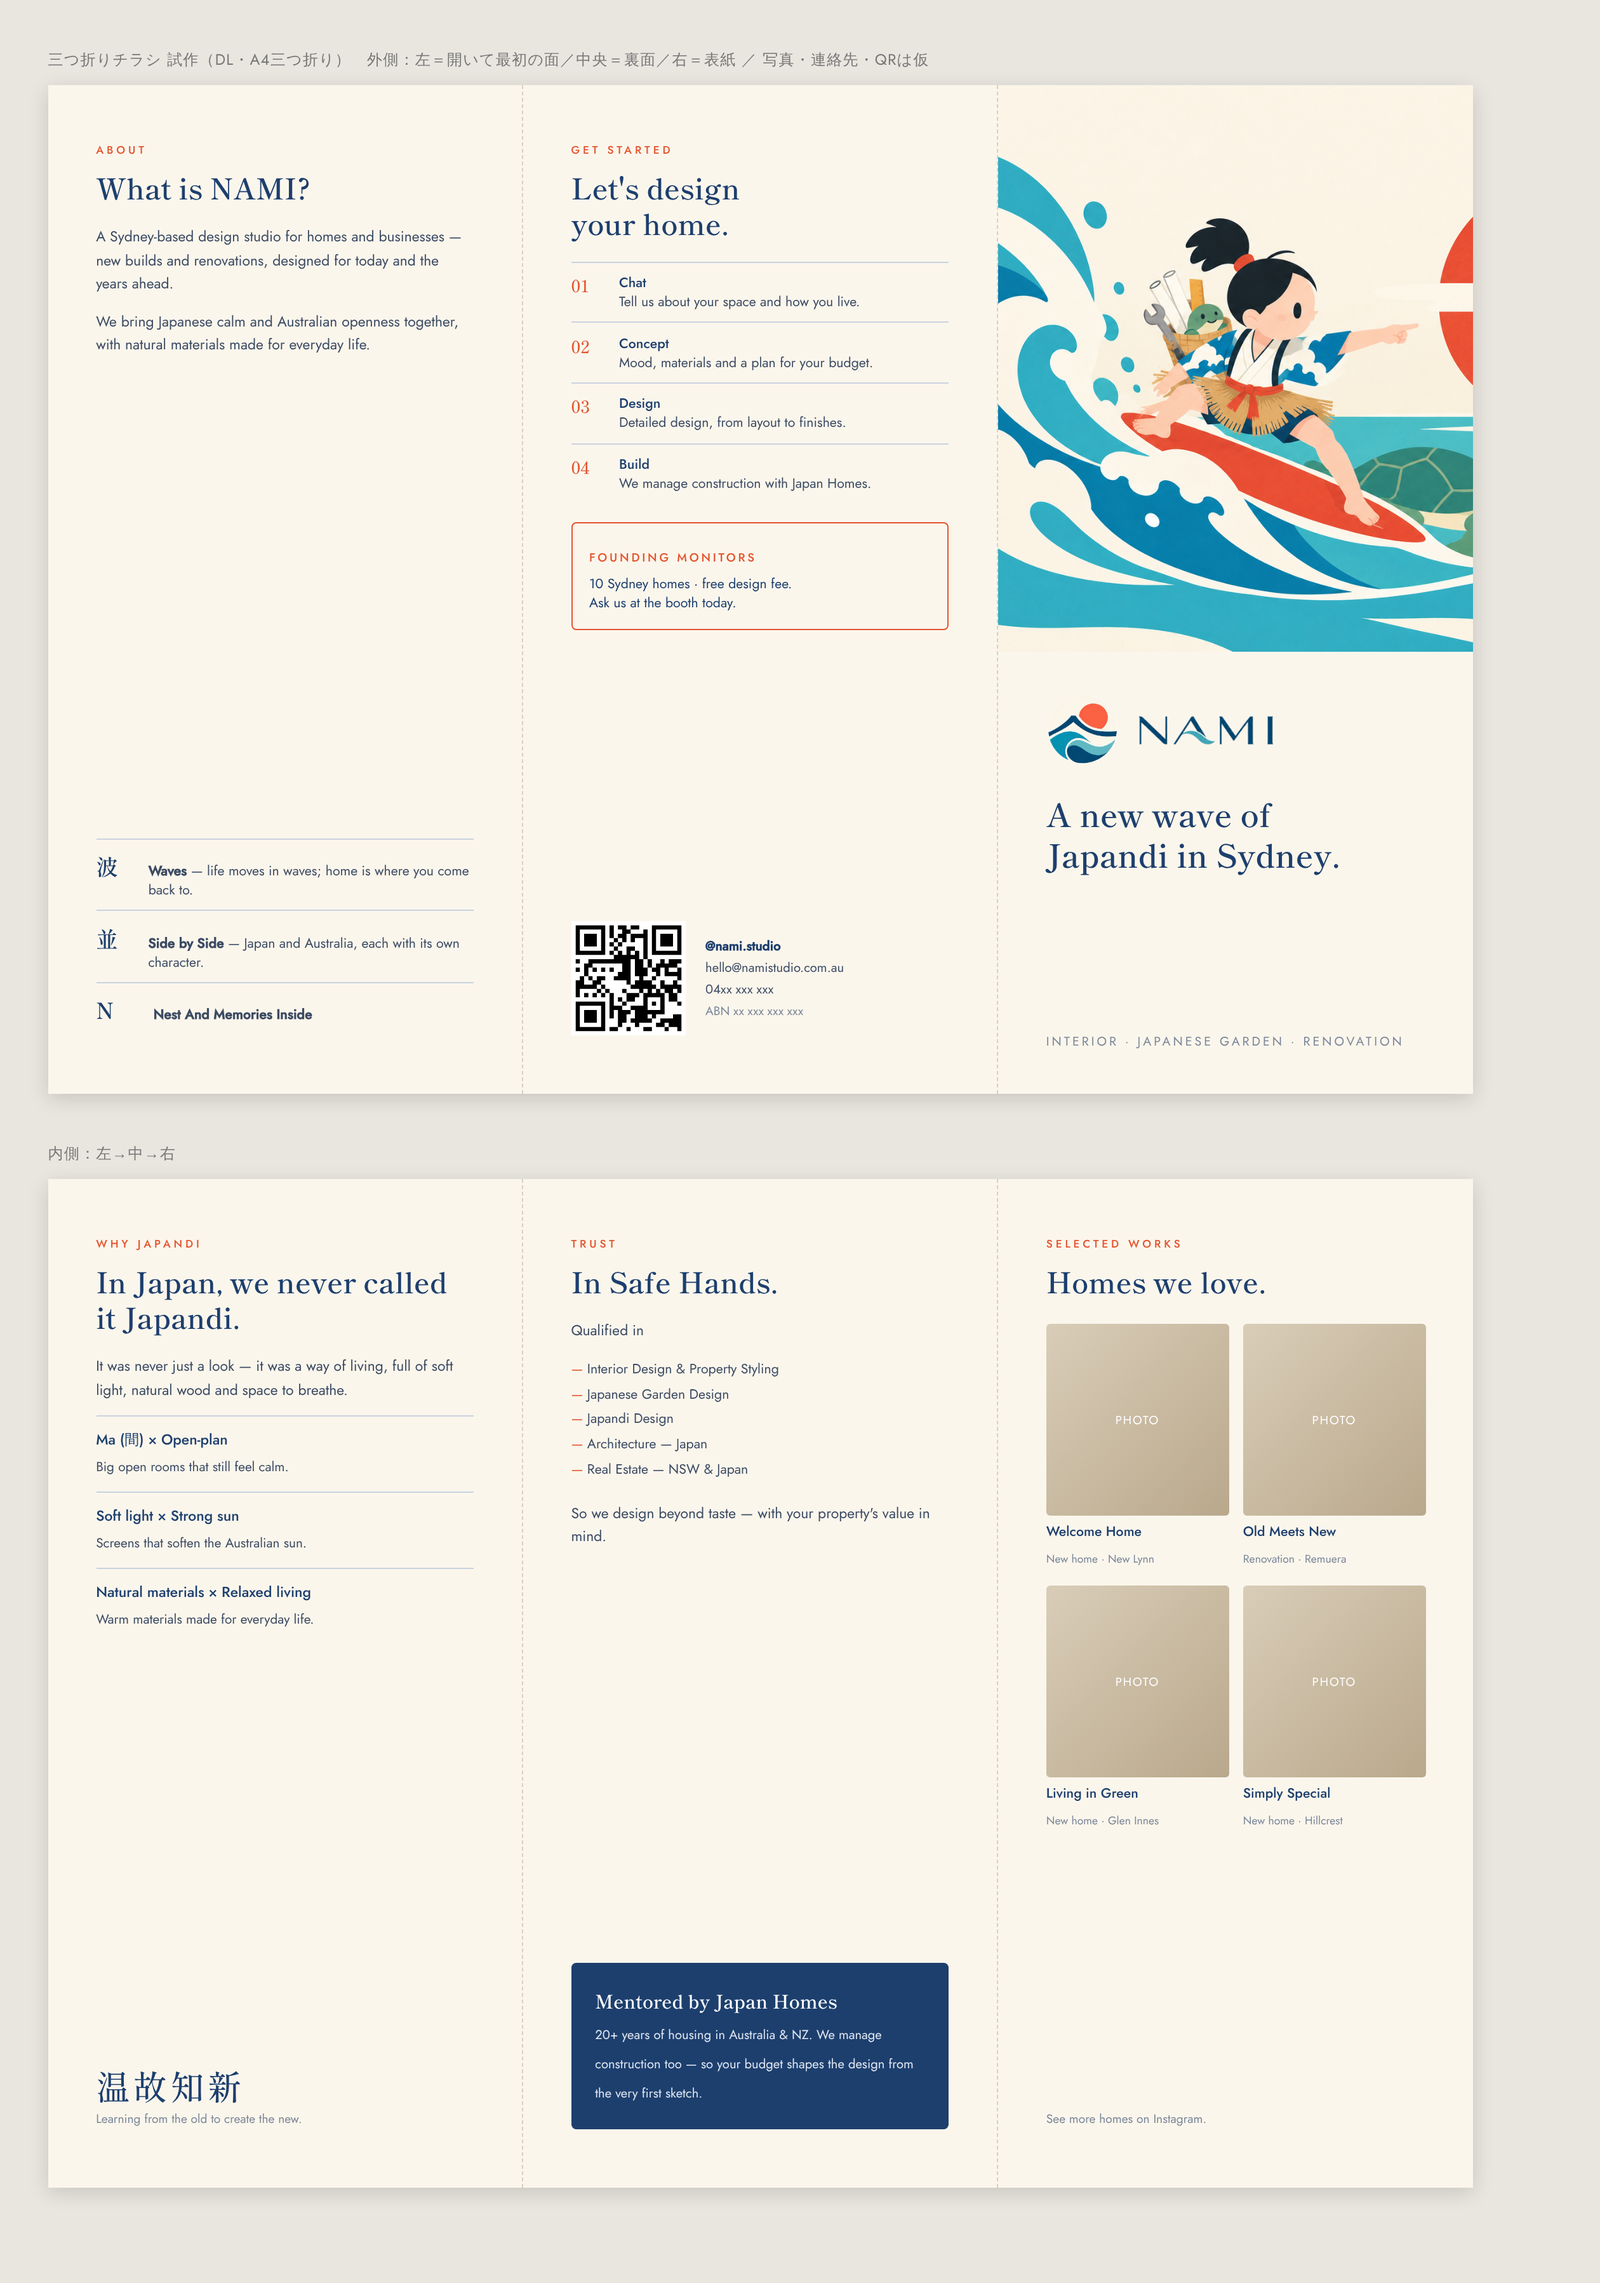
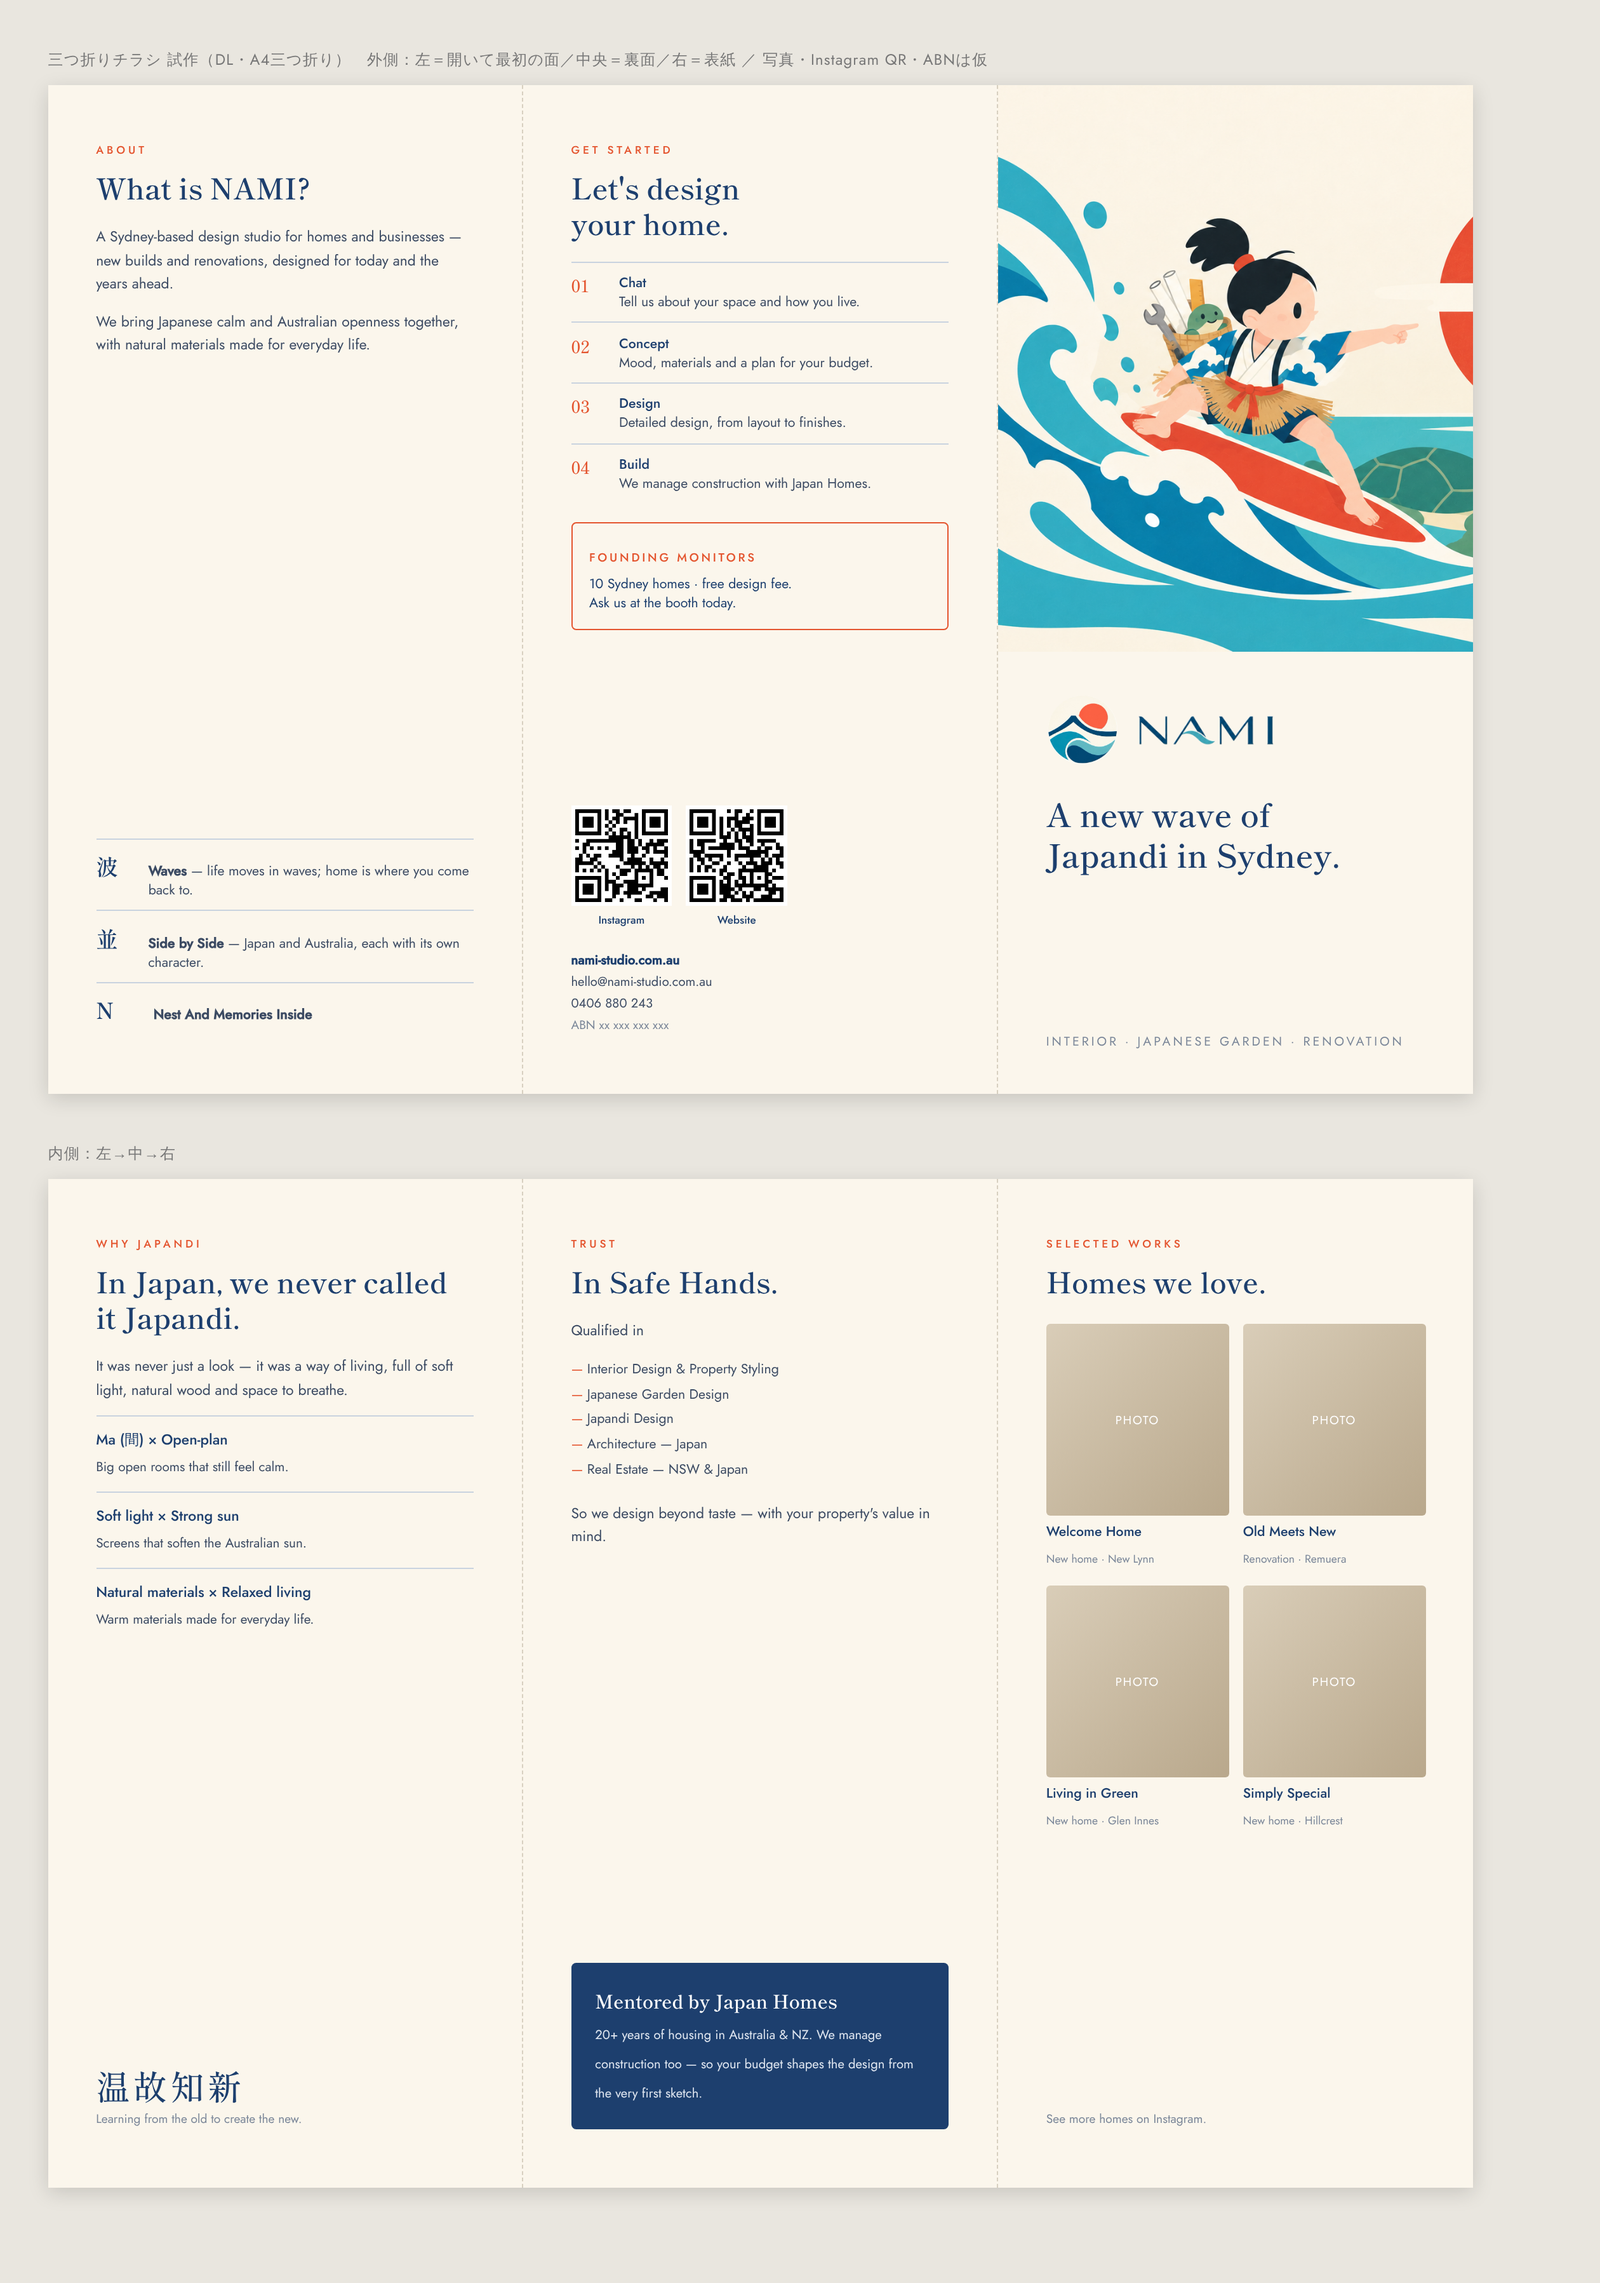
Drafts: add contact details and website + Instagram QR codes
Claude-Session: https://claude.ai/code/session_01LMQJVP3iY12Mot613LaoTx

Changed region(s): [[0.3405, 0.3428, 0.4952, 0.4674]]

diff --git a/matsuri-sydney/print/drafts/card.html b/matsuri-sydney/print/drafts/card.html
@@ -11,28 +11,31 @@
 .front .contact b{color:var(--navy);font-weight:500}
 .front .dot{position:absolute;right:6.5mm;top:6mm;width:3mm;height:3mm;border-radius:50%;background:var(--red)}
 .back{display:flex}
-.back .art{width:57mm;height:55mm;background:url(surf.png) 38% center/cover}
+.back .art{width:47mm;height:55mm;background:url(surf.png) 38% center/cover}
 .back .side{flex:1;padding:4.5mm 4mm;display:flex;flex-direction:column;align-items:center;text-align:center}
 .back .tag{font-size:7.4pt;line-height:1.3}
-.back .qr{width:20mm;margin-top:auto}
-.back .h{font-size:5.6pt;color:var(--navy);margin-top:1.2mm;font-weight:500}
-.back .s{font-size:4.8pt;color:var(--muted);margin-top:.4mm}
+.back .qrs{display:flex;gap:3mm;margin-top:auto}
+.back .qrs div{display:flex;flex-direction:column;align-items:center}
+.back .qrs img{width:16mm}
+.back .h{font-size:5.4pt;color:var(--navy);margin-top:1mm;font-weight:500}
+.back .s{font-size:4.6pt;color:var(--muted);margin-top:.3mm;line-height:1.3}
 </style></head><body>
-<p class="lbl">名刺 試作（90×55mm）　左：表面　右：裏面 ／ 名前・連絡先・QRは仮</p>
+<p class="lbl">名刺 試作（90×55mm）　左：表面　右：裏面 ／ 名前・Instagram QRは仮</p>
 <div class="wrap">
 <div class="card front">
   <div class="logo"><img class="m" src="mark.png"><div><img class="w" src="wordmark.png"><div class="studio">STUDIO</div></div></div>
   <div class="name serif">Your Name</div>
   <div class="role">Founder · Interior &amp; Garden Designer</div>
-  <div class="contact"><b>E</b><span>hello@namistudio.com.au</span><b>M</b><span>04xx xxx xxx</span><b>W</b><span>namistudio.com.au</span></div>
+  <div class="contact"><b>E</b><span>hello@nami-studio.com.au</span><b>M</b><span>0406 880 243</span><b>W</b><span>nami-studio.com.au</span></div>
 </div>
 <div class="card back">
   <div class="art"></div>
   <div class="side">
     <div class="tag serif">A new wave<br>of Japandi<br>in Sydney.</div>
-    <img class="qr" src="qr.png">
-    <div class="h">@nami.studio</div>
-    <div class="s">Scan for DIY ideas<br>&amp; our homes</div>
+    <div class="qrs">
+      <div><img src="qr_ig.png"><div class="h">Instagram</div><div class="s">DIY ideas</div></div>
+      <div><img src="qr_web.png"><div class="h">Website</div><div class="s">Our homes</div></div>
+    </div>
   </div>
 </div>
 </div></body></html>

diff --git a/matsuri-sydney/print/drafts/trifold.html b/matsuri-sydney/print/drafts/trifold.html
@@ -33,13 +33,13 @@ ul.q li::before{content:"— ";color:var(--red)}
 .steps div::before{counter-increment:s;content:"0" counter(s);font-family:'Shippori Mincho';color:var(--red);font-size:10pt;width:7mm}
 .steps b{color:var(--navy);font-weight:500;display:block}
 .contact{display:flex;gap:4mm;align-items:center;margin-top:auto}
-.contact img{width:24mm}
+.contact .q2{display:flex;gap:3mm}.contact .q2 div{text-align:center;font-size:6.4pt;color:var(--navy);font-weight:500}.contact img{width:21mm;display:block;margin-bottom:1mm}
 .contact div{font-size:7.6pt;line-height:1.7}
 .mon{border:.3mm solid var(--red);padding:3.5mm;margin:4mm 0;border-radius:1mm}
 .mon b{color:var(--red);font-weight:500;font-size:7pt;letter-spacing:.2em}
 .mon div{font-size:8pt;color:var(--navy);margin-top:.8mm}
 </style></head><body>
-<p class="lbl">三つ折りチラシ 試作（DL・A4三つ折り）　外側：左＝開いて最初の面／中央＝裏面／右＝表紙 ／ 写真・連絡先・QRは仮</p>
+<p class="lbl">三つ折りチラシ 試作（DL・A4三つ折り）　外側：左＝開いて最初の面／中央＝裏面／右＝表紙 ／ 写真・Instagram QR・ABNは仮</p>
 <div class="sheet">
   <div class="p">
     <div class="k">ABOUT</div>
@@ -62,7 +62,7 @@ ul.q li::before{content:"— ";color:var(--red)}
       <div><span><b>Build</b>We manage construction with Japan Homes.</span></div>
     </div>
     <div class="mon"><b>FOUNDING MONITORS</b><div>10 Sydney homes · free design fee.<br>Ask us at the booth today.</div></div>
-    <div class="contact"><img src="qr.png"><div><b style="color:var(--navy)">@nami.studio</b><br>hello@namistudio.com.au<br>04xx xxx xxx<br><span class="small">ABN xx xxx xxx xxx</span></div></div>
+    <div class="contact" style="flex-direction:column;align-items:flex-start"><div class="q2"><div><img src="qr_ig.png">Instagram</div><div><img src="qr_web.png">Website</div></div><div><b style="color:var(--navy)">nami-studio.com.au</b><br>hello@nami-studio.com.au<br>0406 880 243<br><span class="small">ABN xx xxx xxx xxx</span></div></div>
   </div>
   <div class="p cover">
     <div class="art"></div>
